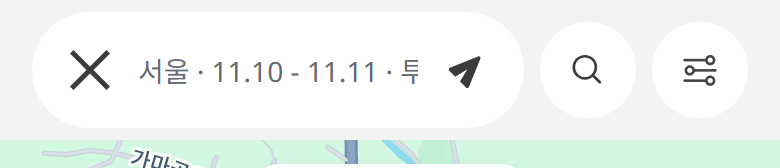
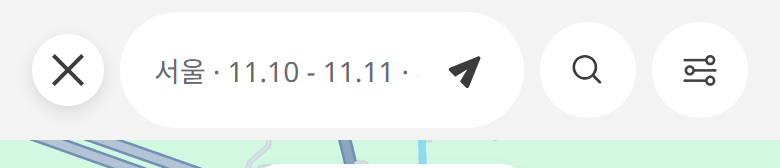
update: 검색 결과 지도 — 닫기 버튼 분리(a4d65df) 반영·지도 캡처 다시 찍음

diff --git a/reward/front/f_sres.html b/reward/front/f_sres.html
@@ -10,7 +10,7 @@
      packages/shared constants/search.ts(한 번에 50곳) · messages/ko-KR.json search
      검색 결과 화면은 리워드 이전부터 개발팀이 만든 화면 — 리워드용 변경은 [적립필독] 버튼(C13⑤)뿐
      캡처: 캡처 사본 웹(비로그인) · 서울 11.9~11.10 2명 — 숙소·가격은 사본 서버가 KAYAK에서 실제로 받은 캡처 시점 값(_capture/cap_r_search.py)
-     2026-11-03 지도 보기 추가 — 근거: pickoq-front feature/search-map(b682d76 · c436353, 대사 11-03 · feature/reward 아직 미병합)
+     2026-11-03 지도 보기 추가 — 근거: pickoq-front feature/search-map(b682d76 · c436353 · a4d65df 닫기 버튼 분리 14:23, 대사 11-03 · feature/reward 아직 미병합)
      SearchMapView.tsx · model/google-maps.ts · shared search-map.ts(묶기 규칙) · 정책변경 C25. 캡처 _capture/cap_r_map.py(서울 11.10~11.11 · 비로그인)
      F-SRES-L · E1 은 [지도로 보기] 버튼이 생겨 11-03 다시 찍음 -->
 </head>
@@ -41,7 +41,7 @@
 <!-- 변경이력: 개발자 공유 이후부터 노출 -->
 <div class="box hist"><h3>변경이력</h3>
   <table class="t"><tr><th>버전</th><th>날짜</th><th>내용</th></tr>
-    <tr><td>v0.3</td><td>2026-11-03</td><td>⑤ 지도 보기 추가(실개발 11-03) — [지도로 보기] 버튼 · 위쪽 검색줄 · 가격 핀·묶음 · 작은 카드 · 지도 위 검색 수정·필터 · 지도 불러오기 실패. 페이지 구성·맨 아래 캡처 다시 찍음</td></tr>
+    <tr><td>v0.3</td><td>2026-11-03</td><td>⑤ 지도 보기 추가(실개발 11-03) — [지도로 보기] 버튼 · 위쪽 검색줄 · 가격 핀·묶음 · 작은 카드 · 지도 위 검색 수정·필터 · 지도 불러오기 실패. 페이지 구성·맨 아래 캡처 다시 찍음. 같은 날 오후 [✕]가 입력칸 밖 작은 동그라미 버튼으로 바뀌어 지도 캡처 다시 찍음</td></tr>
     <tr><td>v0.2</td><td>2026-11-02</td><td>실개발 기준으로 다시 씀 — 캡처 9장(조건 줄 · 필터 칩 · AI 추천 · 숙소 카드 · 목록 더보기 · 필터 시트 · AI 필터 · 검색 수정)</td></tr>
     <tr><td>v0.1</td><td>2026-10-28</td><td>프로토 기준 작성 중</td></tr></table></div>
 
@@ -237,7 +237,7 @@
   <div class="two-col" style="grid-template-columns:320px minmax(0,1fr)">
     <div class="shots-row"><div class="sw"><div class="lb">F-SRES-F1</div><figure class="shot" data-id="F-SRES-F1" data-base="../"></figure></div></div>
     <div class="ann">
-      <div class="cn" data-n="20"><div class="cn-hd"><span class="no">20</span>[✕] 지도 닫기</div><ul><li>지금 결과 그대로 목록으로 돌아갑니다(주소에서 <code>layout=map</code>만 뺌).</li></ul></div>
+      <div class="cn" data-n="20"><div class="cn-hd"><span class="no">20</span>[✕] 지도 닫기</div><ul><li>검색창 왼쪽에 따로 떨어진 작은 흰 동그라미 버튼입니다(입력칸과 헷갈리지 않게 · PO 11-03).</li><li>지금 결과 그대로 목록으로 돌아갑니다(주소에서 <code>layout=map</code>만 뺌).</li></ul></div>
       <div class="cn" data-n="21"><div class="cn-hd"><span class="no">21</span>AI 검색창</div>
         <ul><li>비어 있을 때 안내 글 = 「목적지 · 날짜 · 인원」 요약(예: "서울 · 11.10 - 11.11 · 투숙객 2명 · 객실 1개"). AI 검색으로 들어왔으면 그 문장이 들어 있습니다.</li>
             <li>문장을 넣고 검색하면 <b>지도에 머문 채</b> 새 결과로 바뀌고, 지도가 새 1위 호텔로 옮겨 갑니다(예: 서울 → 강릉). 목적지를 말하지 않으면 지금 도시를 유지합니다 — 결과 화면 AI 재검색과 같은 규칙. (C25⑦)</li></ul></div>

diff --git a/reward/shots/markers.js b/reward/shots/markers.js
@@ -8832,17 +8832,17 @@ window.MARKERS = {
   "img": "shots/front/F-SRES-F1.png",
   "m": [
    {
-    "h": 47.62,
+    "h": 42.86,
     "n": "20",
-    "w": 10.26,
-    "x": 6.41,
-    "y": 17.86
+    "w": 9.23,
+    "x": 4.1,
+    "y": 20.24
    },
    {
     "h": 25.0,
     "n": "21",
-    "w": 35.9,
-    "x": 17.69,
+    "w": 33.85,
+    "x": 19.74,
     "y": 29.17
    },
    {
